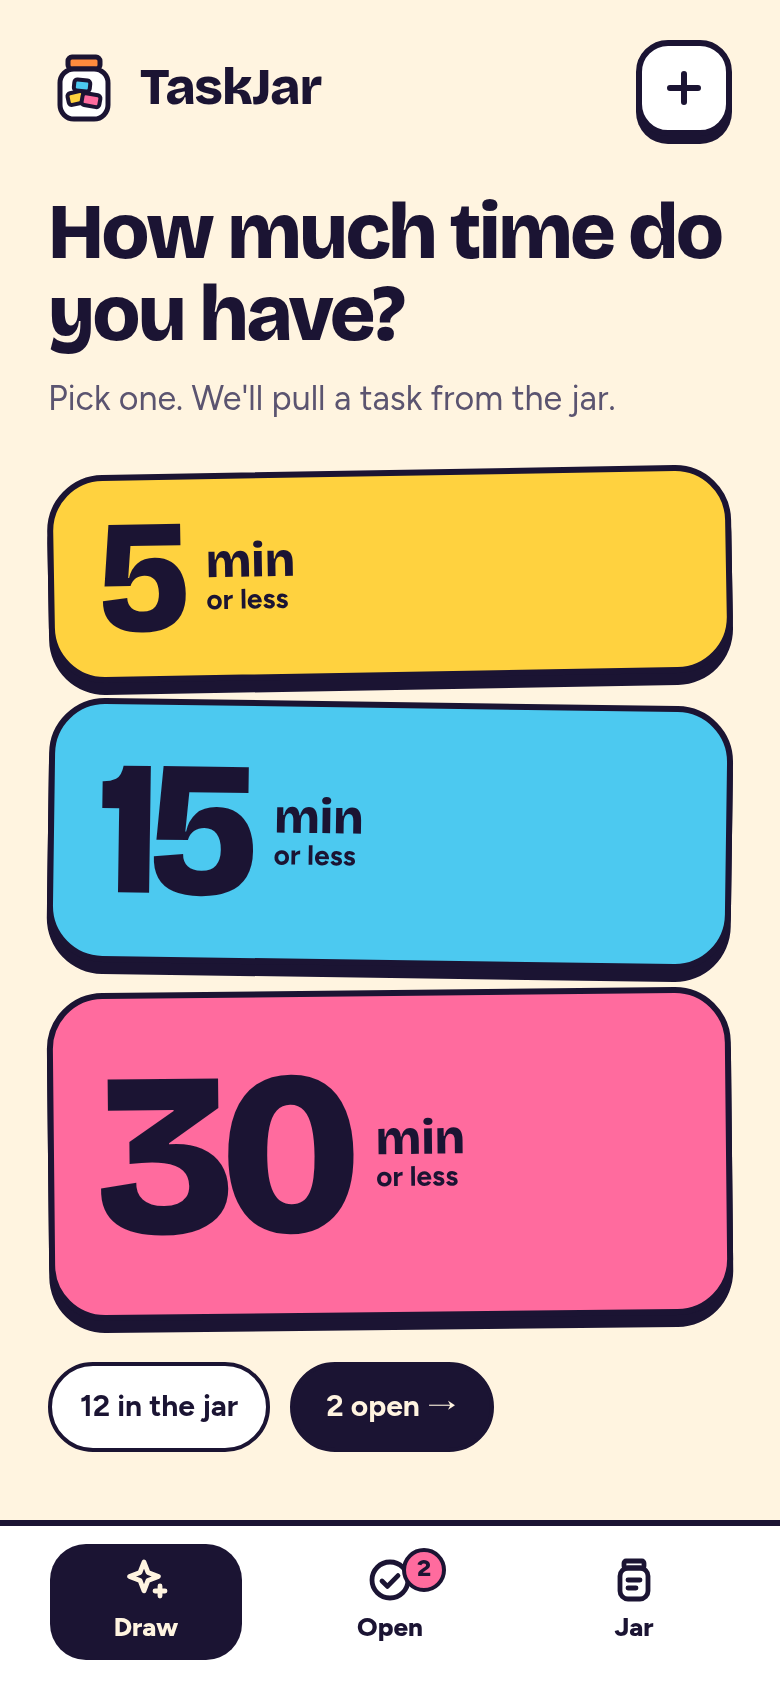
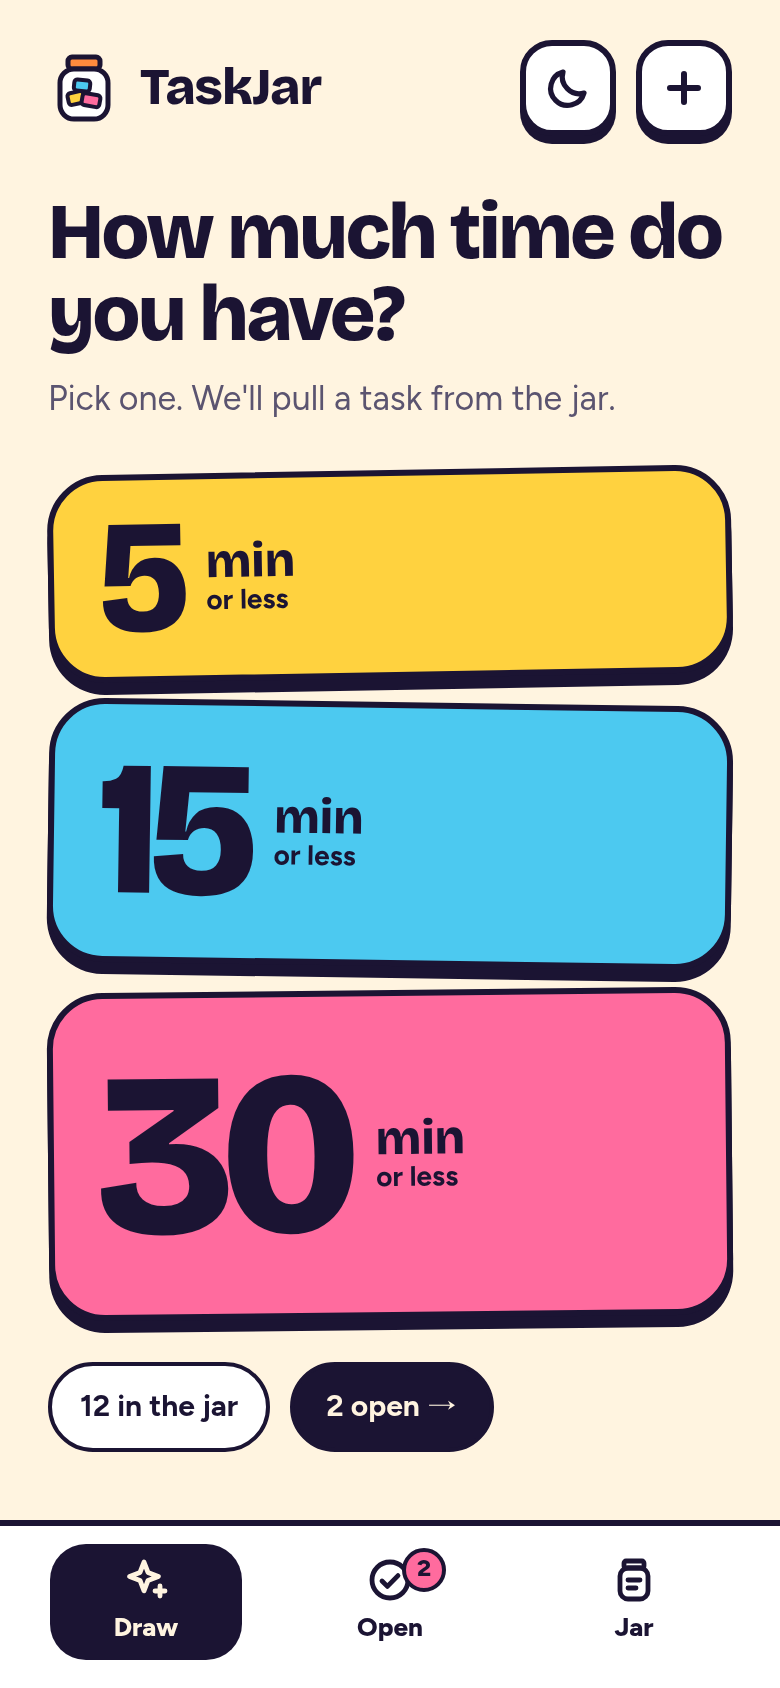
docs: refresh screenshots for theme toggle and desktop layout (#17)
Retakes the screenshots that changed with #15 and #16: the home header
now has the theme button (`home-light`, `home-dark`, `tablet`, and the
hero rebuilt from them), plus a new `desktop-jar` shot (1440×900, dark).
The README feature list now mentions the theme toggle and the desktop
layout.

Changed region(s): [[0.6462, 0.0, 0.8, 0.0924]]

diff --git a/README.md b/README.md
@@ -31,7 +31,8 @@ Big chore lists are discouraging. TaskJar flips it around: you only ever see **o
 - **The 30-minute rule.** Every task takes 30 minutes or less. Bigger jobs are politely rejected ("Too big! Split it into smaller tasks.") in the UI _and_ on the server.
 - **Take it → Go! → done.** Taken tasks move to an Open list, and checking one off plays a small celebration.
 - **One shared jar.** Data lives on your server, so every phone, tablet and wall panel sees the same jar live.
-- **Made for home.** Mobile-first, a two-column layout for a landscape tablet or wall panel, dark mode that follows the system, and simple fades when "reduce motion" is on.
+- **Made for home.** Mobile-first, with wide layouts for a landscape tablet, wall panel or desktop, and simple fades when "reduce motion" is on.
+- **Light and dark.** Follows the system by default. The sun/moon button on the home screen overrides it for that device.
 - **Self-hosted and private.** One small container with SQLite, and no accounts or cloud services.
 
 ## Screenshots
@@ -53,6 +54,9 @@ Big chore lists are discouraging. TaskJar flips it around: you only ever see **o
     <td align="center"><img src="docs/screenshots/home-dark.png" width="200" alt="Home in dark mode"><br><sub>Dark mode</sub></td>
     <td align="center"><img src="docs/screenshots/open-dark.png" width="200" alt="Open tasks in dark mode"><br><sub>Dark mode</sub></td>
     <td align="center" colspan="2"><img src="docs/screenshots/tablet.png" width="420" alt="Two-column home on a landscape tablet"><br><sub>Tablet and wall panel</sub></td>
+  </tr>
+  <tr>
+    <td align="center" colspan="4"><img src="docs/screenshots/desktop-jar.png" width="860" alt="The jar on a desktop, three columns of tasks in dark mode"><br><sub>Desktop</sub></td>
   </tr>
 </table>
 
